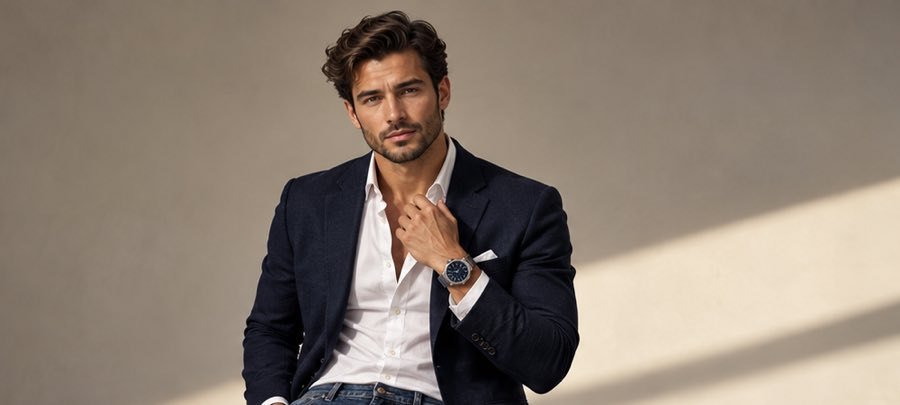
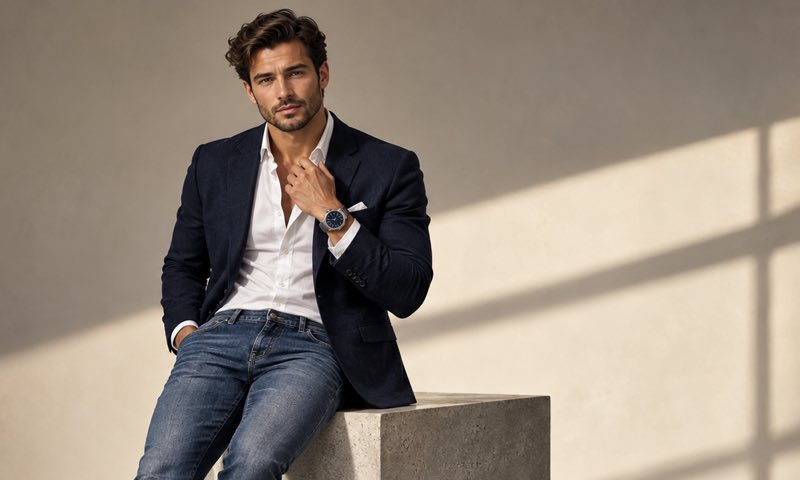
Category pages: clearly visible picture showcase beside the title (#33)
* Category pages: clearly visible picture showcase beside the title

The faint background picture is replaced by a showcase card on the right of the page header (below the text on phones): the whole picture is visible, with a soft glow, a slow zoom and cross-fade, dots with a progress bar on the current one, a picture counter, a pause button, swipe on touch screens and a light 3D tilt that follows the mouse. The pictures are re-cropped at 5:3 (800x480) so the full scene shows. Pictures load after the page; they pause when the tab is hidden, the card is off screen or the pointer is over it, nothing animates for visitors who ask for less motion, and nothing extra loads with Data Saver on. Clothing, Sports & Fitness, Beauty & Personal Care and Home & Kitchen only; Watches is unchanged.

* Showcase pictures: smaller files (quality 56)

The 21 showcase pictures were about 100 KB each; at quality 56 they are about 80 KB each with no visible loss on the card, so the first picture on a category page loads sooner.

---------

diff --git a/frontend/src/js/components/cat-banner.js b/frontend/src/js/components/cat-banner.js
@@ -1,48 +1,139 @@
 (function () {
   'use strict';
-  // Category page banner: the first picture is already in the page; the rest are added after load and fade into each other.
-  var box = document.querySelector('[data-cat-banner]');
+  // Category page picture showcase: the first picture is already in the page; the others are added after load, fade into each other
+  // (the progress bar on the current dot is the timer), and can be changed with the dots or a swipe. Nothing runs for visitors who ask
+  // for less motion except the dots, and nothing extra loads when Data Saver is on.
+  var box = document.querySelector('[data-cat-showcase]');
   if (!box) return;
   var reduce = window.matchMedia && window.matchMedia('(prefers-reduced-motion: reduce)').matches;
+  var saveData = navigator.connection && navigator.connection.saveData;
   var slides = [];
   try { slides = JSON.parse(box.getAttribute('data-slides') || '[]'); } catch (e) { slides = []; }
-  if (reduce || !slides.length) return;
+  if (!slides.length || saveData) return;
+
+  var label = box.getAttribute('data-label') || 'Category';
+  box.setAttribute('role', 'group');
+  box.setAttribute('aria-roledescription', 'carousel');
+  box.setAttribute('aria-label', label + ' pictures');
 
   var imgs = [box.querySelector('img')];
   var current = 0;
-  var timer = null;
-  var visible = true;
+  var userPaused = false, hover = false, focus = false, visible = true;
+  var dots = null, count = null, pp = null, controls = null;
 
+  function sync() {
+    var paused = userPaused || hover || focus || !visible || document.hidden;
+    box.classList.toggle('is-paused', paused);
+  }
   function show(n) {
     imgs[current].classList.remove('is-on');
-    current = n;
+    if (dots) dots.children[current].removeAttribute('aria-current');
+    current = (n + imgs.length) % imgs.length;
     imgs[current].classList.add('is-on');
+    if (dots) {
+      // removing and re-adding the attribute restarts the progress animation
+      var d = dots.children[current];
+      d.setAttribute('aria-current', 'true');
+    }
+    if (count) count.textContent = (current + 1) + ' / ' + imgs.length;
   }
-  function next() {
-    if (document.hidden || !visible || imgs.length < 2) return;
-    show((current + 1) % imgs.length);
+
+  function buildControls() {
+    controls = document.createElement('div');
+    controls.className = 'cat-controls';
+    dots = document.createElement('div');
+    dots.className = 'cat-dots';
+    imgs.forEach(function (img, i) {
+      var b = document.createElement('button');
+      b.type = 'button';
+      b.setAttribute('aria-label', 'Show picture ' + (i + 1) + ' of ' + imgs.length);
+      b.addEventListener('click', function () { show(i); });
+      dots.appendChild(b);
+    });
+    dots.children[0].setAttribute('aria-current', 'true');
+    controls.appendChild(dots);
+    count = document.createElement('span');
+    count.className = 'cat-count';
+    count.setAttribute('aria-hidden', 'true');
+    count.textContent = '1 / ' + imgs.length;
+    controls.appendChild(count);
+    if (!reduce) {
+      pp = document.createElement('button');
+      pp.type = 'button';
+      pp.className = 'cat-pp';
+      pp.setAttribute('aria-label', 'Pause pictures');
+      pp.innerHTML = '<span aria-hidden="true">❚❚</span>';
+      pp.addEventListener('click', function () {
+        userPaused = !userPaused;
+        pp.setAttribute('aria-label', userPaused ? 'Play pictures' : 'Pause pictures');
+        pp.firstChild.textContent = userPaused ? '▶' : '❚❚';
+        sync();
+      });
+      controls.appendChild(pp);
+    }
+    box.appendChild(controls);
+    if (!reduce) {
+      box.classList.add('is-playing');
+      // the progress bar on the current dot ends -> the next picture
+      dots.addEventListener('animationend', function (e) {
+        if (e.animationName === 'cat-progress') show(current + 1);
+      });
+    }
   }
-  function start() {
-    if (!timer) timer = window.setInterval(next, 7000);
-  }
+
   function load() {
-    slides.forEach(function (src) {
+    var pending = slides.length;
+    var made = [];
+    slides.forEach(function (src, i) {
       var img = new Image();
       img.alt = '';
-      img.width = 900;
-      img.height = 405;
+      img.width = 800;
+      img.height = 480;
       img.decoding = 'async';
-      img.onload = function () {
-        box.appendChild(img);
-        imgs.push(img);
-        start();
+      var done = function (ok) {
+        if (ok) made[i] = img;
+        pending -= 1;
+        if (pending === 0) {
+          made.forEach(function (m) { if (m) { box.insertBefore(m, box.querySelector('.cat-controls')); imgs.push(m); } });
+          if (imgs.length > 1) { buildControls(); sync(); }
+        }
       };
+      img.onload = function () { done(true); };
+      img.onerror = function () { done(false); };
       img.src = src;
     });
   }
+
+  box.addEventListener('pointerenter', function (e) { if (e.pointerType === 'mouse') { hover = true; sync(); } });
+  box.addEventListener('pointerleave', function () { hover = false; sync(); box.style.setProperty('--tilt-x', '0deg'); box.style.setProperty('--tilt-y', '0deg'); });
+  box.addEventListener('focusin', function () { focus = true; sync(); });
+  box.addEventListener('focusout', function () { focus = false; sync(); });
+  document.addEventListener('visibilitychange', sync);
   if ('IntersectionObserver' in window) {
-    new IntersectionObserver(function (entries) { visible = entries[0].isIntersecting; }).observe(box);
+    new IntersectionObserver(function (entries) { visible = entries[0].isIntersecting; sync(); }).observe(box);
   }
-  var begin = function () { window.setTimeout(load, 1200); };
+
+  // a light 3D tilt that follows the mouse (not on touch screens)
+  if (!reduce && window.matchMedia && window.matchMedia('(hover: hover) and (pointer: fine)').matches) {
+    box.addEventListener('pointermove', function (e) {
+      var r = box.getBoundingClientRect();
+      var x = (e.clientX - r.left) / r.width - 0.5;
+      var y = (e.clientY - r.top) / r.height - 0.5;
+      box.style.setProperty('--tilt-y', (x * 7).toFixed(2) + 'deg');
+      box.style.setProperty('--tilt-x', (-y * 5).toFixed(2) + 'deg');
+    });
+  }
+
+  // swipe on touch screens
+  var startX = null;
+  box.addEventListener('pointerdown', function (e) { if (e.pointerType === 'touch') startX = e.clientX; });
+  box.addEventListener('pointerup', function (e) {
+    if (startX === null || imgs.length < 2) { startX = null; return; }
+    var dx = e.clientX - startX;
+    startX = null;
+    if (Math.abs(dx) > 40) show(current + (dx < 0 ? 1 : -1));
+  });
+
+  var begin = function () { window.setTimeout(load, 800); };
   if (document.readyState === 'complete') begin(); else window.addEventListener('load', begin);
 })();

diff --git a/frontend/src/css/components/cat-banner.css b/frontend/src/css/components/cat-banner.css
@@ -1,27 +1,56 @@
-/* Faint rotating picture behind the header of a category page. It is decoration only: no text sits on it and it never takes clicks. */
-.has-banner { position: relative; overflow: hidden; isolation: isolate; }
-.cat-banner {
-  position: absolute; top: 0; right: 0; z-index: -1;
-  width: min(66%, 900px); height: min(430px, 100%);
-  opacity: 0.3; pointer-events: none;
-  -webkit-mask-image: radial-gradient(100% 90% at 100% 20%, #000 0%, rgba(0, 0, 0, 0.6) 40%, transparent 80%);
-  mask-image: radial-gradient(100% 90% at 100% 20%, #000 0%, rgba(0, 0, 0, 0.6) 40%, transparent 80%);
+/* Category page header: title on the left, a rotating picture showcase on the right (below the text on phones). */
+.cat-head { margin-bottom: var(--space-5); }
+.cat-head-text { min-width: 0; }
+.cat-head.has-showcase { display: grid; gap: var(--space-4); }
+@media (min-width: 900px) {
+  .cat-head.has-showcase { grid-template-columns: minmax(0, 1fr) minmax(340px, 500px); align-items: center; gap: 44px; }
 }
-.cat-banner img {
+
+.cat-showcase {
+  position: relative; isolation: isolate; overflow: hidden; width: 100%; aspect-ratio: 5 / 3;
+  border-radius: 22px; background: #e9e2d6;
+  box-shadow: 0 26px 60px -22px rgba(194, 65, 12, 0.42), 0 10px 28px rgba(7, 11, 20, 0.16);
+  transform: perspective(1000px) rotateX(var(--tilt-x, 0deg)) rotateY(var(--tilt-y, 0deg));
+  transition: transform 0.35s ease, box-shadow 0.35s ease;
+}
+.cat-showcase img {
   position: absolute; top: 0; left: 0; width: 100%; height: 100%; object-fit: cover;
   opacity: 0; transform: scale(1);
-  transition: opacity 1.8s ease, transform 9s linear;
+  transition: opacity 1.1s ease, transform 8s ease-out;
 }
-.cat-banner img.is-on { opacity: 1; transform: scale(1.06); }
-@media (max-width: 700px) {
-  .cat-banner {
-    width: 100%; height: 230px; opacity: 0.16;
-    -webkit-mask-image: linear-gradient(to bottom, #000 0%, rgba(0, 0, 0, 0.5) 45%, transparent 90%);
-    mask-image: linear-gradient(to bottom, #000 0%, rgba(0, 0, 0, 0.5) 45%, transparent 90%);
-  }
+.cat-showcase img.is-on { opacity: 1; transform: scale(1.07); }
+/* soft shade at the bottom for the controls, and a light sheen on the top-left corner */
+.cat-showcase::after {
+  content: ""; position: absolute; inset: 0; z-index: 1; pointer-events: none;
+  background: linear-gradient(to top, rgba(7, 11, 20, 0.6), rgba(7, 11, 20, 0) 40%), linear-gradient(135deg, rgba(255, 255, 255, 0.16), rgba(255, 255, 255, 0) 38%);
+}
+
+.cat-controls { position: absolute; left: 12px; right: 12px; bottom: 8px; z-index: 2; display: flex; align-items: center; gap: 10px; }
+.cat-dots { display: flex; align-items: center; gap: 4px; flex: 1 1 auto; min-width: 0; }
+.cat-dots button { position: relative; flex: 0 1 34px; min-width: 22px; height: 24px; padding: 0; border: 0; background: transparent; cursor: pointer; }
+.cat-dots button::before { content: ""; position: absolute; left: 0; right: 0; top: 10px; height: 4px; border-radius: 4px; background: rgba(255, 255, 255, 0.45); }
+.cat-dots button[aria-current="true"]::before { background: rgba(255, 255, 255, 0.7); }
+.cat-dots button[aria-current="true"]::after {
+  content: ""; position: absolute; left: 0; right: 0; top: 10px; height: 4px; border-radius: 4px;
+  background: var(--color-primary-light); transform: scaleX(1); transform-origin: left;
+}
+.cat-showcase.is-playing .cat-dots button[aria-current="true"]::after { transform: scaleX(0); animation: cat-progress 6s linear forwards; }
+.cat-showcase.is-paused .cat-dots button[aria-current="true"]::after { animation-play-state: paused; }
+.cat-dots button:focus-visible, .cat-pp:focus-visible { outline: 2px solid #fff; outline-offset: 2px; border-radius: 6px; }
+.cat-count { color: #fff; font-size: 0.78rem; font-weight: 700; letter-spacing: 0.04em; font-variant-numeric: tabular-nums; text-shadow: 0 1px 6px rgba(0, 0, 0, 0.5); }
+.cat-pp { width: 32px; height: 32px; padding: 0; border: 0; border-radius: 50%; background: rgba(255, 255, 255, 0.22); color: #fff; font-size: 0.7rem; line-height: 1; cursor: pointer; backdrop-filter: blur(6px); }
+.cat-pp:hover { background: rgba(255, 255, 255, 0.36); }
+@keyframes cat-progress { from { transform: scaleX(0); } to { transform: scaleX(1); } }
+
+@media (prefers-reduced-motion: no-preference) {
+  .cat-showcase { animation: cat-in 0.7s ease-out both; }
+  @keyframes cat-in { from { opacity: 0; transform: translateY(14px) scale(0.98); } to { opacity: 1; } }
 }
 @media (prefers-reduced-motion: reduce) {
-  .cat-banner img { transition: none; transform: none; }
-  .cat-banner img.is-on { transform: none; }
+  .cat-showcase, .cat-showcase img { transition: none; }
+  .cat-showcase img.is-on { transform: none; }
 }
-@media print { .cat-banner { display: none; } }
+@media (max-width: 700px) {
+  .cat-showcase { aspect-ratio: 16 / 10; border-radius: 18px; margin-top: var(--space-2); }
+}
+@media print { .cat-showcase { display: none; } }

diff --git a/frontend/build.py b/frontend/build.py
@@ -359,15 +359,22 @@ def home_collage():
 
 
 def category_banner(cat):
-    """Faint rotating picture behind the header of a category page: every .jpg in static/images/banners/<category-slug>/ (in file-name order).
+    """Picture showcase beside the header of a category page: every .jpg in static/images/banners/<category-slug>/ (in file-name order).
     Only the first picture is in the page; the others are listed in data-slides and added by cat-banner.js after the page has loaded."""
     folder = SRC / "static" / "images" / "banners" / cat["slug"]
     names = sorted(p.name for p in folder.glob("*.jpg")) if folder.exists() else []
     if not names:
         return ""
     urls = [f'/images/banners/{cat["slug"]}/{n}' for n in names]
-    return (f'<div class="cat-banner" aria-hidden="true" data-cat-banner data-slides="{esc(json.dumps(urls[1:]))}">'
-            f'<img class="is-on" src="{esc(urls[0])}" alt="" width="900" height="405" decoding="async" fetchpriority="low"></div>')
+    return (f'<div class="cat-showcase" data-cat-showcase data-label="{esc(cat["name"])}" data-slides="{esc(json.dumps(urls[1:]))}">'
+            f'<img class="is-on" src="{esc(urls[0])}" alt="" width="800" height="480" decoding="async"></div>')
+
+
+def cat_head(cat, text_html):
+    """Header of a category landing page: breadcrumb, title and lead on the left, the picture showcase on the right (below the text on phones)."""
+    banner = category_banner(cat)
+    cls = "cat-head has-showcase" if banner else "cat-head"
+    return f'<header class="{cls}">\n    <div class="cat-head-text">\n{text_html}    </div>\n    {banner}\n    </header>\n'
 
 
 def family_url(cat, fam):
@@ -667,9 +674,8 @@ def audience_tabs_page(cat, entries, products):
     block = kit().listing(cat, products, f'pl-{cat["slug"]}', cat["families"], segment_tabs=True, type_chips=chips)
     notes = "".join(f'<li><a href="{esc(e["url"])}"><strong>{esc(e["name"])}</strong></a> {esc(e["description"])}</li>' for e in entries)
     body = (
-        f'<section class="section has-banner">\n  {category_banner(cat)}\n  <div class="container content-page family-page">\n'
-        '    {{breadcrumb}}\n'
-        f'    <h1>{esc(cat["name"])}</h1>\n    <p class="lead">{esc(cat.get("tagline") or cat["description"])}</p>\n'
+        '<section class="section">\n  <div class="container content-page family-page">\n'
+        + cat_head(cat, '    {{breadcrumb}}\n' + f'    <h1>{esc(cat["name"])}</h1>\n    <p class="lead">{esc(cat.get("tagline") or cat["description"])}</p>\n') +
         f'    {block}\n'
         + ('    <div class="pl-reviews"><h2>Reviews</h2>\n' + "\n".join(product_review_html(p) for p in products) + '</div>\n' if products else '')
         + f'    <h2>Product types</h2>\n    <ul class="pl-type-notes">{notes}</ul>\n'
@@ -735,9 +741,8 @@ def beauty_pages(cat):
         cards_html = f'<div class="family-cards family-cards-3">{category_directory(entries, grid_id="family-results")}</div>'
     if not cat.get("audience_tabs"):
         body = (
-            f'<section class="section has-banner">\n  {category_banner(cat)}\n  <div class="container content-page family-page">\n'
-            '    {{breadcrumb}}\n'
-            f'    <h1>{esc(cat["name"])}</h1>\n    <p class="lead">{esc(cat.get("tagline") or cat["description"])}</p>\n'
+            '<section class="section">\n  <div class="container content-page family-page">\n'
+            + cat_head(cat, '    {{breadcrumb}}\n' + f'    <h1>{esc(cat["name"])}</h1>\n    <p class="lead">{esc(cat.get("tagline") or cat["description"])}</p>\n') +
             f'    {cards_html}\n'
             f'    <p class="family-note">{esc(PRICE_NOTE)} This section is general information, not medical advice.</p>\n'
             '  </div>\n</section>')
@@ -835,10 +840,9 @@ def family_pages():
                 f'<span class="family-count">{len(by_section[s["slug"]])} product types</span></div>\n'
                 f'  <p class="family-section-blurb">{esc(s["blurb"])}</p>\n  {cards}\n</section>')
         body = (
-            f'<section class="section has-banner">\n  {category_banner(cat)}\n  <div class="container content-page family-page">\n'
-            '    {{breadcrumb}}\n'
-            f'    <h1>{esc(cat["name"])}</h1>\n'
-            f'    <p class="lead">{esc(cat.get("tagline") or cat["description"])}</p>\n'
+            '<section class="section">\n  <div class="container content-page family-page">\n'
+            + cat_head(cat, '    {{breadcrumb}}\n' + f'    <h1>{esc(cat["name"])}</h1>\n'
+                      f'    <p class="lead">{esc(cat.get("tagline") or cat["description"])}</p>\n')
             + ('    <section class="family-guides" id="guides"><h2>Buying guides</h2>\n    {{articles_sports_fitness}}\n    </section>\n' if cat["slug"] == "sports-fitness" else "")
             + "\n".join(blocks) +
             '\n  </div>\n</section>')

diff --git a/frontend/src/static/images/README.md b/frontend/src/static/images/README.md
@@ -7,8 +7,9 @@ images/
   categories/   one picture per top-level category: <category-slug>.jpg (4:3, about 736 x 552)
                 and <category-slug>-thumb.jpg (square, 160 x 160, used in the menu)
   home/         lifestyle pictures for the home hero (4:5 portrait, 256 x 320, JPEG quality about 60, about 25 KB each; each one opens a category through src/home-wall.json); every .jpg in this folder joins the drifting rows, in file-name order (01-, 02-, 03- ... picture 1 goes to row 1, picture 2 to row 2, picture 3 to row 3, picture 4 to row 1 again, so number them to mix the categories). 18 pictures give six per row; a row with fewer is repeated automatically so it still fills wide screens
-  banners/      one folder per category slug (clothing-accessories, sports-fitness, beauty-personal-care, home-kitchen) with 900 x 405 pictures (about 2.2:1, quality 55-60, under 80 KB each).
-                They fade softly behind the category page header and rotate every few seconds, in file-name order (01-, 02- ...). Add or remove a .jpg to change them. Watches has no banner folder on purpose.
+  banners/      one folder per category slug (clothing-accessories, sports-fitness, beauty-personal-care, home-kitchen) with 800 x 480 pictures (5:3, JPEG quality about 56, about 80 KB each).
+                They are shown in a showcase card beside the category page title (below the text on phones) and rotate in file-name order (01-, 02- ...) with dots, a swipe and a pause button.
+                Add or remove a .jpg to change them. Watches has no banner folder on purpose.
   products/     <product-id>.jpg  (square, about 800 x 800)
   brands/       <brand-slug>.svg or .png
 ```
